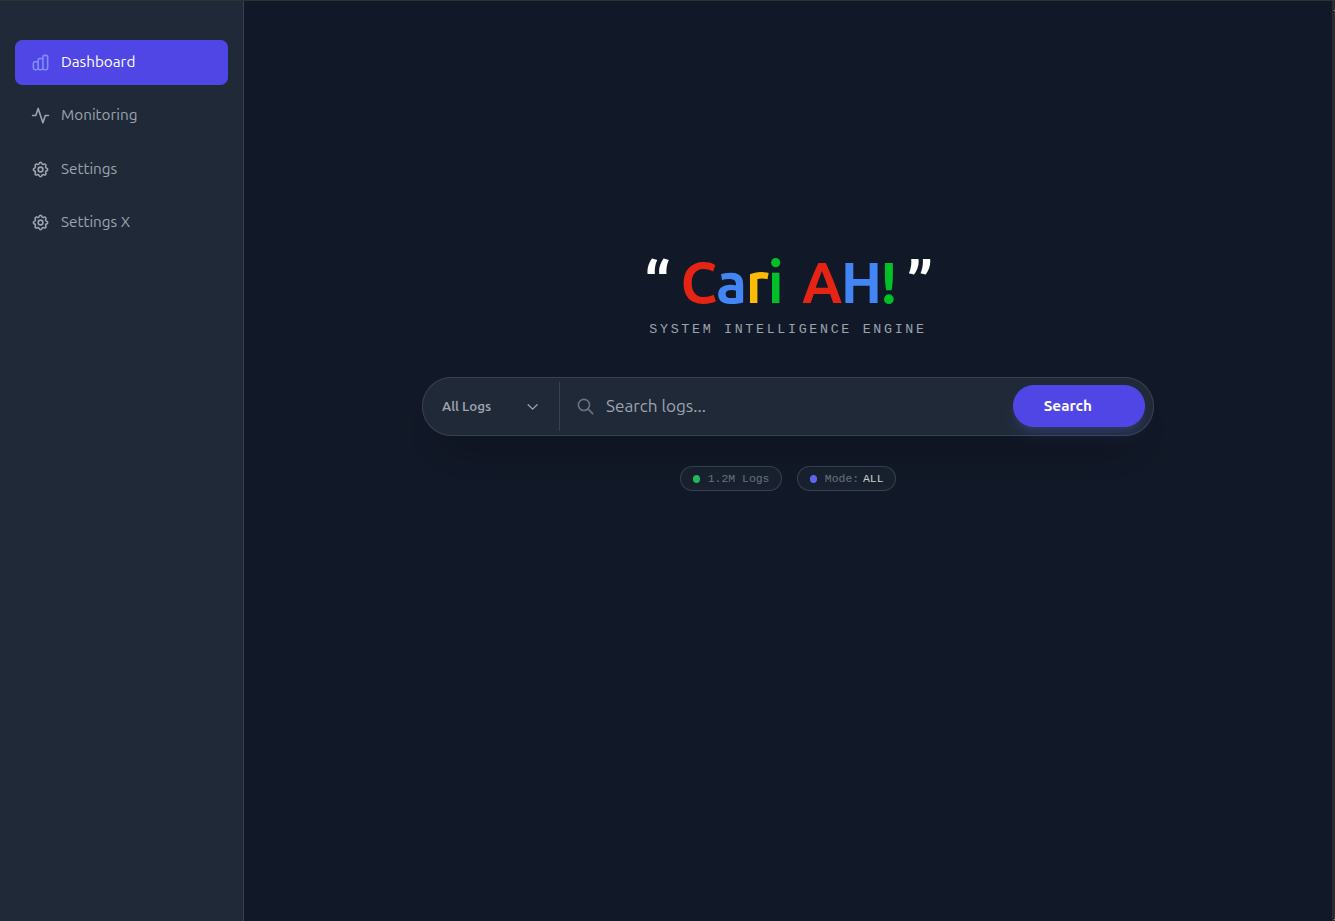
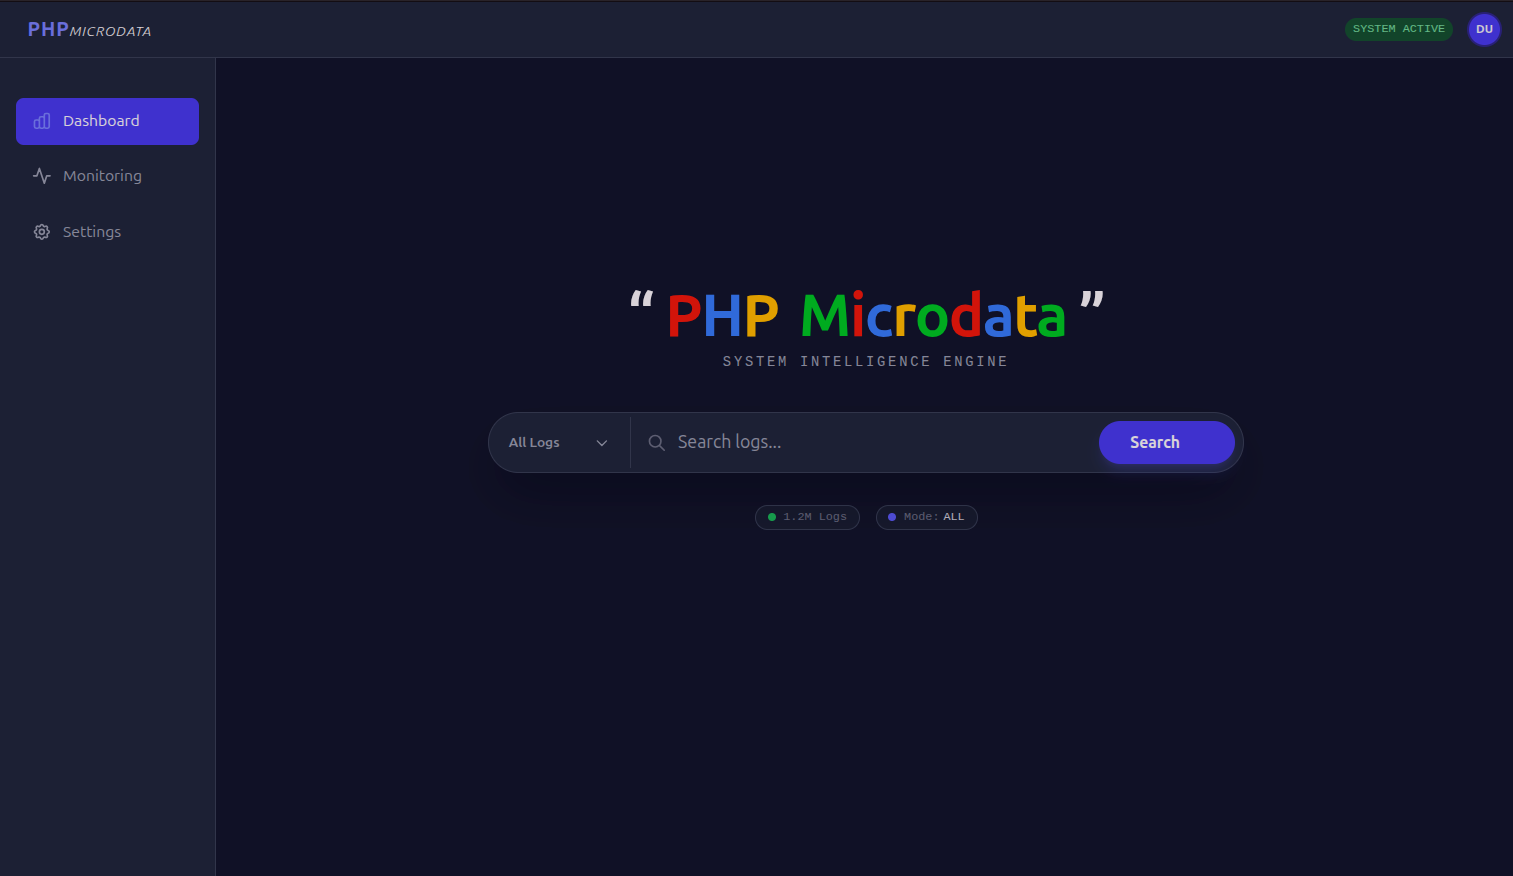
Dashboard Title

diff --git a/views/partial/dashboard.php b/views/partial/dashboard.php
@@ -12,12 +12,26 @@
      }">
     
     <!-- <h3><?= htmlspecialchars((string) $title) ?></h3> -->
-    <div class="text-center mb-6 md:mb-10">
+    <!-- <div class="text-center mb-6 md:mb-10">
         <h1 class="text-4xl md:text-6xl font-bold tracking-tight bg-transparent select-none whitespace-nowrap">
             <span class="text-white">“</span>
             <span class="text-[#e62414]">C</span><span class="text-[#4285F4]">a</span><span class="text-[#FBBC05]">r</span><span class="text-[#00c028]">i</span>
             <span class="text-white italic ml-1 md:ml-2"> </span>
             <span class="text-[#e62414]">A</span><span class="text-[#4285F4]">H</span><span class="text-[#00c028]">!</span>
+            <span class="text-white">”</span>
+        </h1>
+        <p class="text-gray-400 mt-2 font-mono text-[10px] md:text-sm uppercase tracking-[0.2em]">System Intelligence Engine</p>
+    </div> -->
+
+    <div class="text-center mb-6 md:mb-10">
+        <h1 class="text-4xl md:text-6xl font-bold tracking-tight bg-transparent select-none whitespace-nowrap">
+            <span class="text-white">“</span>
+            <span class="text-[#e62414]">P</span><span class="text-[#4285F4]">H</span><span class="text-[#FBBC05]">P</span>
+            
+            <span class="text-white italic ml-1 md:ml-2"> </span>
+            
+            <span class="text-[#00c028]">M</span><span class="text-[#e62414]">i</span><span class="text-[#4285F4]">c</span><span class="text-[#FBBC05]">r</span><span class="text-[#00c028]">o</span><span class="text-[#e62414]">d</span><span class="text-[#4285F4]">a</span><span class="text-[#FBBC05]">t</span><span class="text-[#00c028]">a</span>
+            
             <span class="text-white">”</span>
         </h1>
         <p class="text-gray-400 mt-2 font-mono text-[10px] md:text-sm uppercase tracking-[0.2em]">System Intelligence Engine</p>
